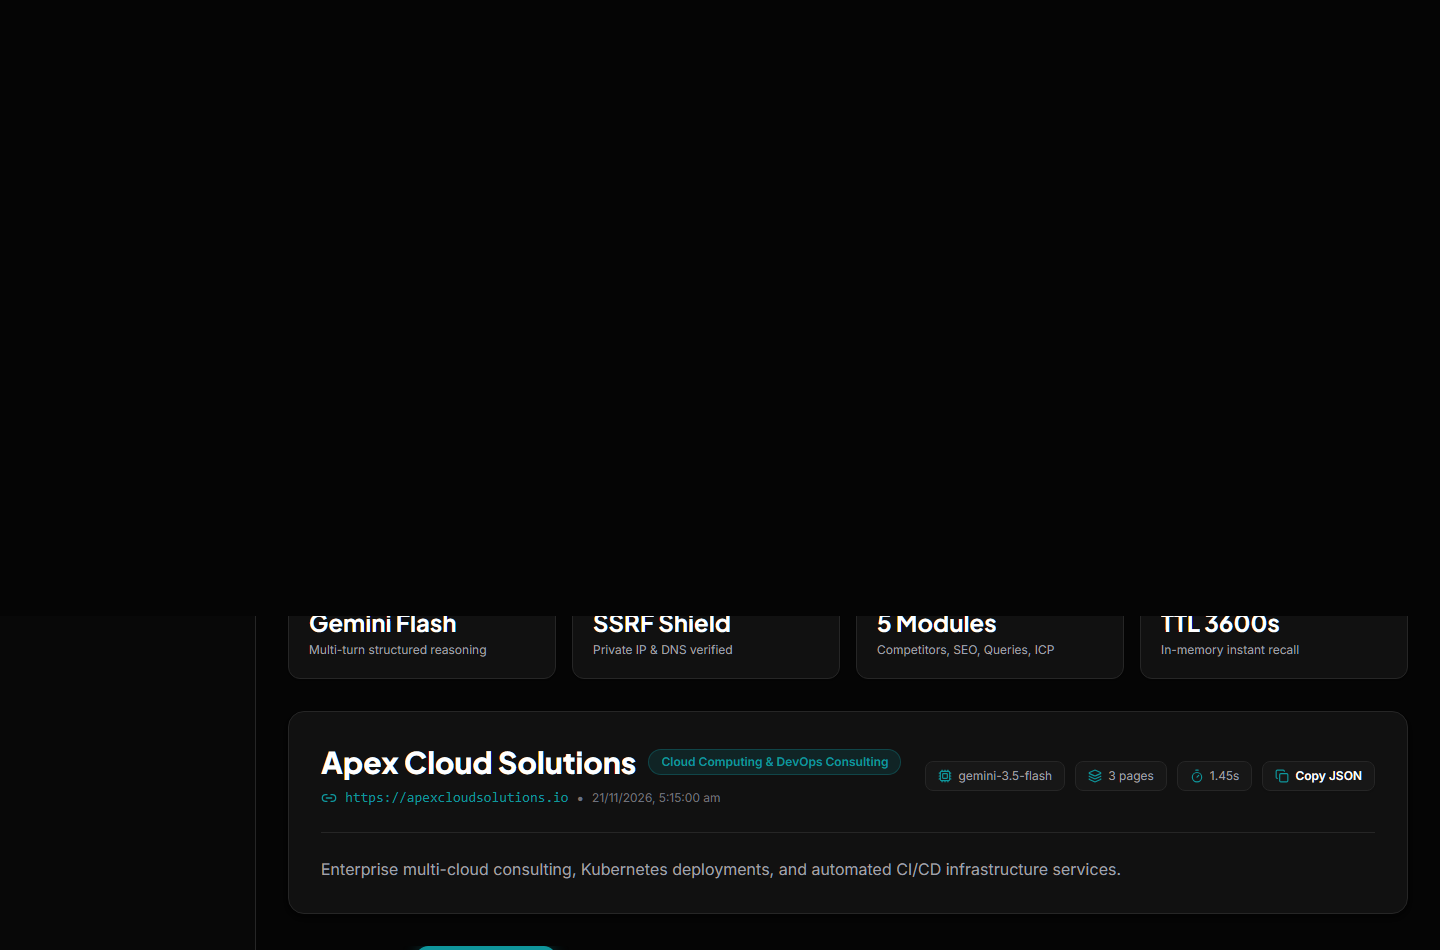
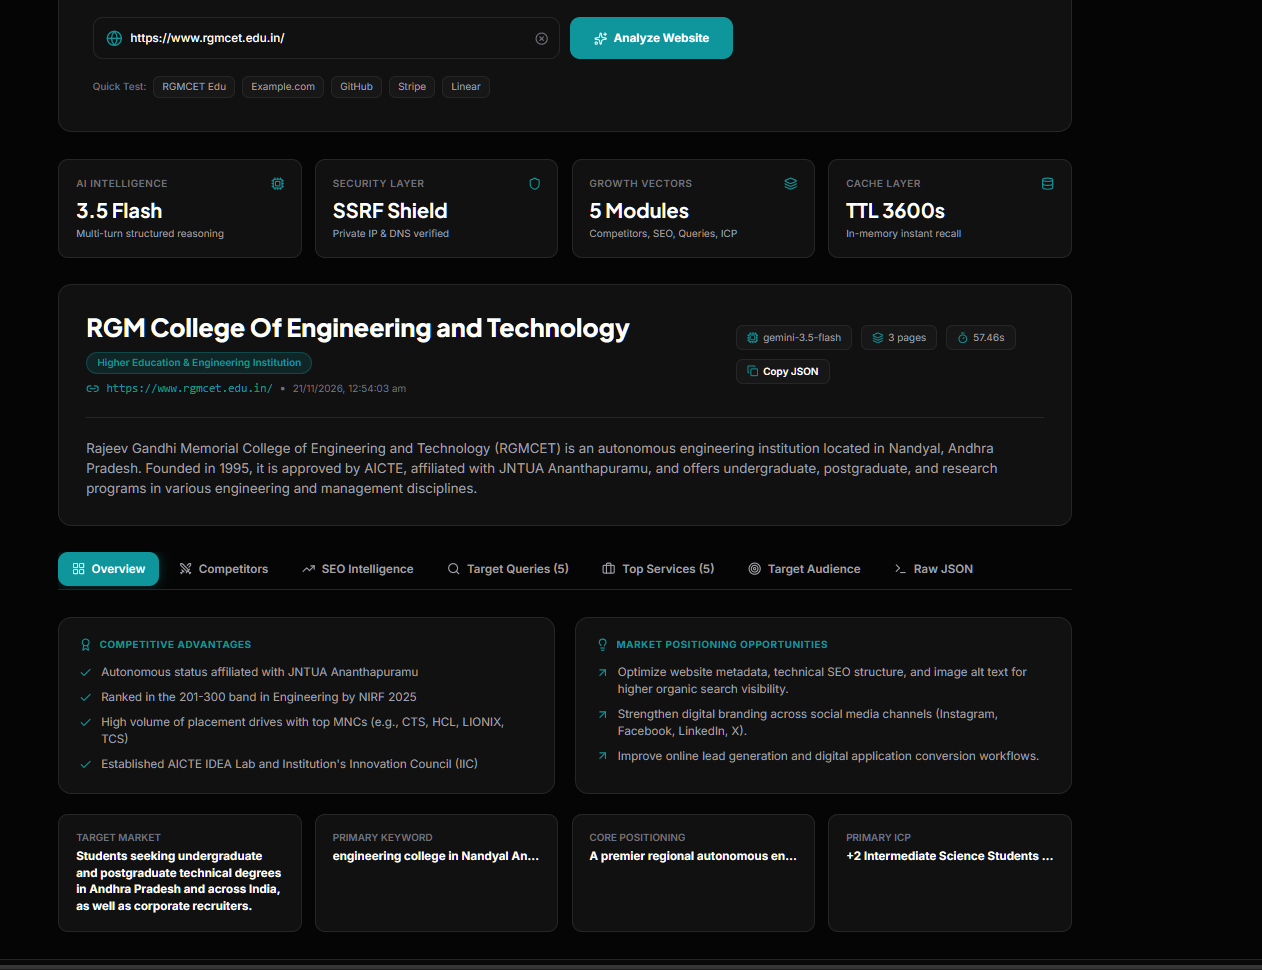
docs: update README with latest screenshots

diff --git a/README.md b/README.md
@@ -404,29 +404,35 @@ tests/test_link_analysis.py::test_successful_end_to_end_analysis PASSED         
 
 ## 14. Screenshots
 
-### Interactive Dashboard – Light Mode
-![SitePulse AI Light Dashboard](screenshots/dashboard-light.png)
+### Interactive Dashboard
+![SitePulse AI Dashboard](screenshots/dashborad.png)
 
-### Interactive Dashboard – Dark Mode
-![SitePulse AI Dark Dashboard](screenshots/dashboard-dark.png)
+### FastAPI Swagger Documentation
+![FastAPI Swagger Documentation](screenshots/REST%20API%20DOCS.png)
 
-### Interactive OpenAPI Documentation
-![Swagger Documentation](screenshots/swagger-docs.png)
-
-### Successful Analysis Execution
+### Successful Website Analysis
 ![Successful Website Analysis](screenshots/successful-analysis.png)
+
+### Analysis Overview & SEO Recommendations
+![SEO & Brand Analysis Overview](screenshots/analysis-result.png)
 
 ### Competitor Intelligence
 ![Competitor Analysis](screenshots/competitor-analysis.png)
 
-### SSRF Protection and Error Handling
-![Error Handling](screenshots/error-handling.png)
+### Search Query Intelligence
+![Target Search Queries](screenshots/target-queries.png)
 
-### Automated Test Suite
-![Test Results](screenshots/test-results.png)
+### Top Business Services Analysis
+![Business Services](screenshots/Top-services.png)
 
-### Service Health
-![Service Health](screenshots/deployment.png)
+### Target Audience & Marketing Segments
+![Target Audience Analysis](screenshots/target-audiance.png)
+
+### Service Health & Operational Monitoring
+![Service Health](screenshots/Health.png)
+
+### Automated Test Suite Execution
+![Automated Test Results](screenshots/test-results.png)
 
 ---
 
